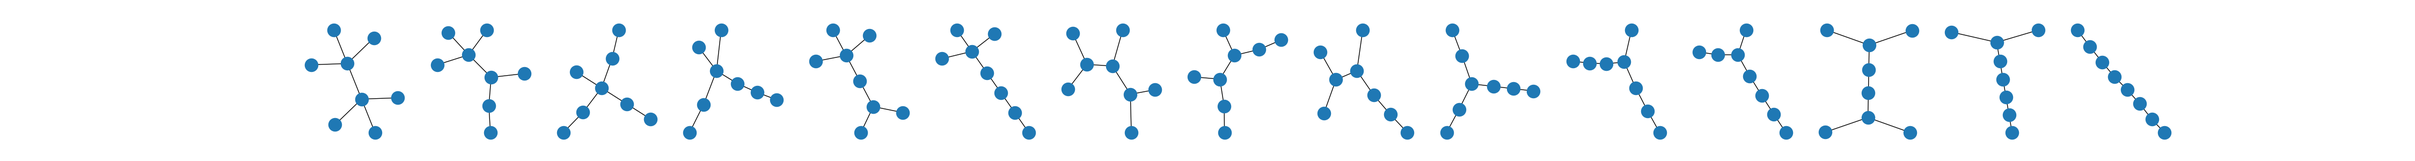
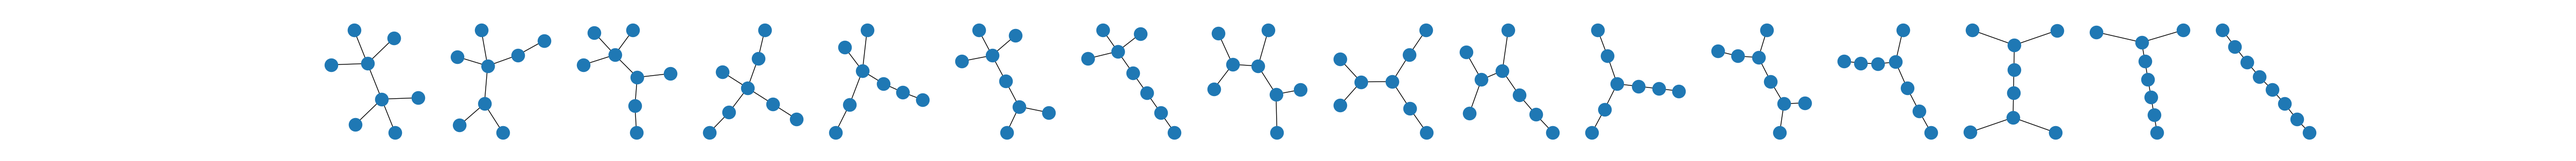
fix bugs

Changed region(s): [[0.1244, 0.15, 0.8711, 0.87], [0.8711, 0.42, 0.9022, 0.54], [0.8711, 0.57, 0.9022, 0.6]]

diff --git a/utils.py b/utils.py
@@ -1,8 +1,9 @@
 from itertools import combinations
 import networkx as nx
+import grinpy as gp
 from pysmiles import write_smiles, fill_valence
-import openbabel as ob
-import pybel
+# import openbabel as ob
+# import pybel
 
 MAX_VALENCY = 4
 
@@ -11,7 +12,7 @@ def enumerate_isomers(carbon_count, acyclic=False):
         given number of carbons and return as NetworkX Graph object """
 
     print("Enumerating all possible isomers......")
-    wiener_indexes = []
+    randic_indexes = []
     isomers = []
 
     # enumerate all possible bonding combinations of numeically labeled carbons 
@@ -25,12 +26,6 @@ def enumerate_isomers(carbon_count, acyclic=False):
         isomer = nx.Graph()
         for bond in bond_combination:
             isomer.add_edge(*bond)
-        
-        # remove duplications by wiener index
-        wiener_index = nx.algorithms.wiener.wiener_index(isomer)
-        if (wiener_index == float('inf')) or (wiener_index in wiener_indexes):
-            continue
-        wiener_indexes.append(wiener_index)
 
         # remove hypervalent structures
         is_hypervalent = any([degree[1] > MAX_VALENCY for degree in isomer.degree])
@@ -41,19 +36,19 @@ def enumerate_isomers(carbon_count, acyclic=False):
         if acyclic and nx.cycle_basis(isomer):
             continue
         
+        # remove duplications by wiener index
+        randic_index = gp.randic_index(isomer)
+        if (randic_index == float('inf')) or (randic_index in randic_indexes):
+            continue
+        randic_indexes.append(randic_index)
+
         isomers.append(isomer)
 
     print("Enumeration finished!")
     return isomers
 
-
 def graph2smiles(mol):
-    for i in mol.size():
+    for i in range(mol.size()):
         mol.nodes[i]['element'] = 'C'
     fill_valence(mol, respect_hcount=True)
-    return write_smiles(mol)
-
-
-def write_gjf_from_smiles(smiles):
-    obj = pybel.readstring('smiles', smiles)
-    obj.write('gjf', './test.gjf')
+    return write_smiles(mol).replace('[*]', 'C')

diff --git a/test.py b/test.py
@@ -1,6 +1,7 @@
 import matplotlib.pyplot as plt
 import networkx as nx
 import utils 
+import smiles2gjf
 
 carbon_count = 7
 isomers = utils.enumerate_isomers(carbon_count, acyclic=True)
@@ -10,6 +11,5 @@ for i, isomer in enumerate(isomers):
 plt.savefig(f'C{carbon_count}_isomers.png')
 
 for i, isomer in enumerate(isomers):
-    print("size: ", isomer.size())
     smiles = utils.graph2smiles(isomer)
-    utils.write_gjf_from_smiles(smiles, f"C{carbon_count}isomer{i}.gjf") 
+    smiles2gjf.exportgjf(smiles, f"C{carbon_count}isomer{i}.gjf")

diff --git a/smiles2gjf.py b/smiles2gjf.py
@@ -1,0 +1,9 @@
+import subprocess
+from subprocess import PIPE
+
+def exportgjf(smiles, filename):
+    command = f"echo '{smiles}' | obabel -i smi -o gjf --gen3D"
+    res = subprocess.run(command, shell=True, stdout=PIPE, stderr=PIPE, text=True)
+    with open(filename, "w") as f:
+        f.write(res.stdout)
+    
